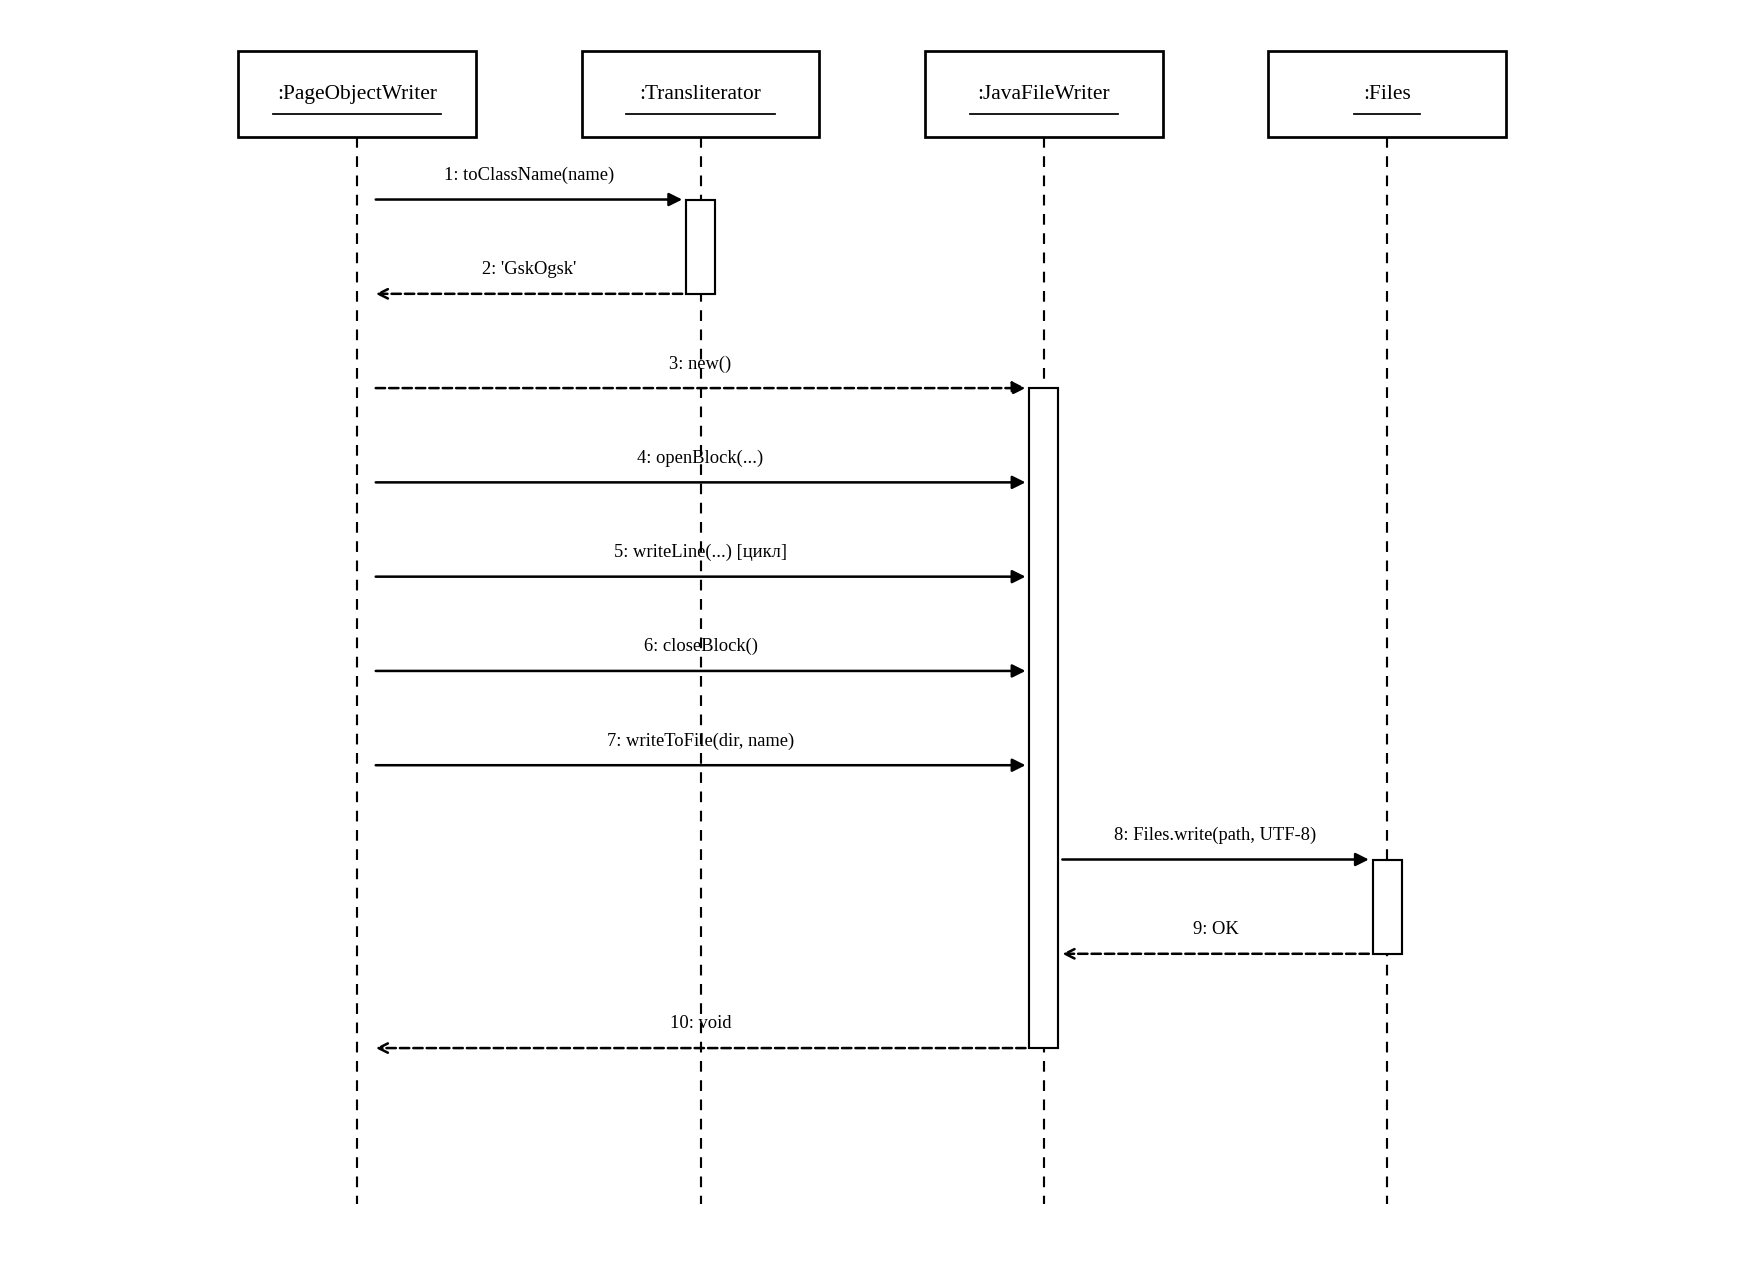
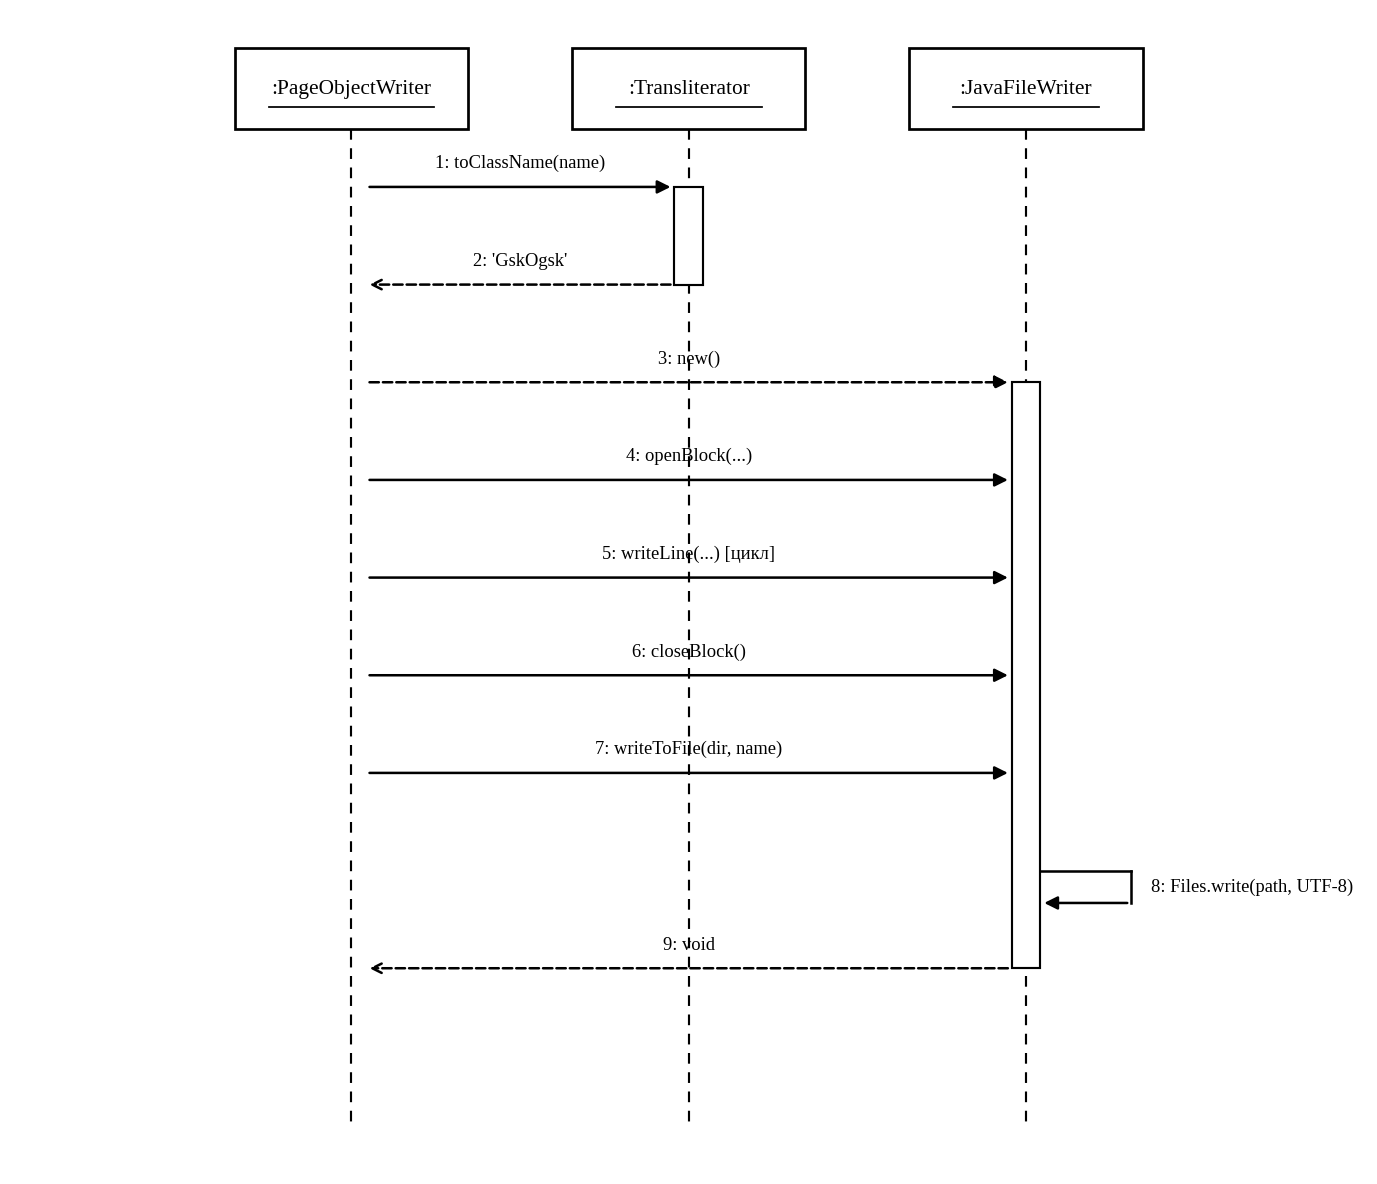
seq: убрана БД и :Files с ДПС — оставлены только объекты классов
По правилам UML на диаграммах последовательностей должны быть
только объекты классов программы, а не внешние сущности.

Изменения:
  • seq-data-normal.png — убран :autotestgen.db, SQL-операции
    вынесены в self-call TestRunDao/TestCaseDao
  • seq-data-system-interrupt.png — то же, SQLException в self-call
  • seq-common-normal.png — убран :Files, Files.write в self-call
    JavaFileWriter
  • seq-common-system-interrupt.png — то же,
    AccessDeniedException в self-call

Нотация ":КлассИмя" — анонимный экземпляр класса — оставлена,
это корректный UML (рис. 7.6, вариант в).

https://claude.ai/code/session_01WPz1fK92QEsvtXEfVLPRQp

diff --git a/diagrams/gen_seq.py b/diagrams/gen_seq.py
@@ -364,17 +364,17 @@ render("seq-generator-system-interrupt.png",
 # ===================== DATA =====================
 print("Data:")
 render("seq-data-normal.png",
-    [":MainController", ":ReportDao", ":TestRunDao", ":TestCaseDao", ":autotestgen.db"],
+    [":MainController", ":ReportDao", ":TestRunDao", ":TestCaseDao"],
     [
         {"from": ":MainController", "to": ":ReportDao", "label": "1: saveRun(result)"},
-        {"from": ":ReportDao", "to": ":ReportDao", "label": "2: conn = open()", "kind": "self"},
+        {"from": ":ReportDao", "to": ":ReportDao", "label": "2: open() + setAutoCommit(false)", "kind": "self"},
         {"from": ":ReportDao", "to": ":TestRunDao", "label": "3: insert(conn, result)"},
-        {"from": ":TestRunDao", "to": ":autotestgen.db", "label": "4: INSERT test_run"},
-        {"from": ":autotestgen.db", "to": ":TestRunDao", "label": "5: runId", "kind": "return"},
-        {"from": ":TestRunDao", "to": ":ReportDao", "label": "6: runId", "kind": "return"},
-        {"from": ":ReportDao", "to": ":TestCaseDao", "label": "7: insertBatch(conn, runId, cases)"},
-        {"from": ":TestCaseDao", "to": ":autotestgen.db", "label": "8: batch INSERT test_case"},
-        {"from": ":ReportDao", "to": ":autotestgen.db", "label": "9: commit()"},
+        {"from": ":TestRunDao", "to": ":TestRunDao", "label": "4: INSERT test_run\nRETURN_GENERATED_KEYS", "kind": "self"},
+        {"from": ":TestRunDao", "to": ":ReportDao", "label": "5: runId", "kind": "return"},
+        {"from": ":ReportDao", "to": ":TestCaseDao", "label": "6: insertBatch(conn, runId, cases)"},
+        {"from": ":TestCaseDao", "to": ":TestCaseDao", "label": "7: batch INSERT test_case", "kind": "self"},
+        {"from": ":TestCaseDao", "to": ":ReportDao", "label": "8: void", "kind": "return"},
+        {"from": ":ReportDao", "to": ":ReportDao", "label": "9: commit()", "kind": "self"},
         {"from": ":ReportDao", "to": ":MainController", "label": "10: void", "kind": "return"},
     ])
 
@@ -389,22 +389,21 @@ render("seq-data-user-interrupt.png",
     ])
 
 render("seq-data-system-interrupt.png",
-    [":MainController", ":ReportDao", ":TestRunDao", ":autotestgen.db"],
+    [":MainController", ":ReportDao", ":TestRunDao"],
     [
         {"from": ":MainController", "to": ":ReportDao", "label": "1: saveRun(result)"},
-        {"from": ":ReportDao", "to": ":ReportDao", "label": "2: open + setAutoCommit(false)", "kind": "self"},
+        {"from": ":ReportDao", "to": ":ReportDao", "label": "2: open() + setAutoCommit(false)", "kind": "self"},
         {"from": ":ReportDao", "to": ":TestRunDao", "label": "3: insert(conn, result)"},
-        {"from": ":TestRunDao", "to": ":autotestgen.db", "label": "4: INSERT (диск переполнен)"},
-        {"from": ":autotestgen.db", "to": ":TestRunDao", "label": "5: SQLException", "kind": "return"},
-        {"from": ":TestRunDao", "to": ":ReportDao", "label": "6: throw наверх", "kind": "return"},
-        {"from": ":ReportDao", "to": ":ReportDao", "label": "7: catch → stderr log", "kind": "self"},
-        {"from": ":ReportDao", "to": ":MainController", "label": "8: void (graceful)", "kind": "return"},
+        {"from": ":TestRunDao", "to": ":TestRunDao", "label": "4: INSERT → SQLException\n(диск переполнен)", "kind": "self"},
+        {"from": ":TestRunDao", "to": ":ReportDao", "label": "5: throw наверх", "kind": "return"},
+        {"from": ":ReportDao", "to": ":ReportDao", "label": "6: catch → stderr log", "kind": "self"},
+        {"from": ":ReportDao", "to": ":MainController", "label": "7: void (graceful)", "kind": "return"},
     ])
 
 # ===================== COMMON =====================
 print("Common:")
 render("seq-common-normal.png",
-    [":PageObjectWriter", ":Transliterator", ":JavaFileWriter", ":Files"],
+    [":PageObjectWriter", ":Transliterator", ":JavaFileWriter"],
     [
         {"from": ":PageObjectWriter", "to": ":Transliterator", "label": "1: toClassName(name)"},
         {"from": ":Transliterator", "to": ":PageObjectWriter", "label": "2: 'GskOgsk'", "kind": "return"},
@@ -413,9 +412,8 @@ render("seq-common-normal.png",
         {"from": ":PageObjectWriter", "to": ":JavaFileWriter", "label": "5: writeLine(...) [цикл]"},
         {"from": ":PageObjectWriter", "to": ":JavaFileWriter", "label": "6: closeBlock()"},
         {"from": ":PageObjectWriter", "to": ":JavaFileWriter", "label": "7: writeToFile(dir, name)"},
-        {"from": ":JavaFileWriter", "to": ":Files", "label": "8: Files.write(path, UTF-8)"},
-        {"from": ":Files", "to": ":JavaFileWriter", "label": "9: OK", "kind": "return"},
-        {"from": ":JavaFileWriter", "to": ":PageObjectWriter", "label": "10: void", "kind": "return"},
+        {"from": ":JavaFileWriter", "to": ":JavaFileWriter", "label": "8: Files.write(path, UTF-8)", "kind": "self"},
+        {"from": ":JavaFileWriter", "to": ":PageObjectWriter", "label": "9: void", "kind": "return"},
     ])
 
 render("seq-common-user-interrupt.png",
@@ -429,13 +427,12 @@ render("seq-common-user-interrupt.png",
     ])
 
 render("seq-common-system-interrupt.png",
-    [":PageObjectWriter", ":JavaFileWriter", ":Files"],
+    [":PageObjectWriter", ":JavaFileWriter"],
     [
         {"from": ":PageObjectWriter", "to": ":JavaFileWriter", "label": "1: writeToFile(dir, name)"},
-        {"from": ":JavaFileWriter", "to": ":Files", "label": "2: createDirectories(dir)"},
-        {"from": ":Files", "to": ":JavaFileWriter", "label": "3: AccessDeniedException", "kind": "return"},
-        {"from": ":JavaFileWriter", "to": ":PageObjectWriter", "label": "4: IOException", "kind": "return"},
-        {"from": ":PageObjectWriter", "to": ":PageObjectWriter", "label": "5: throw наверх в TestGenerator", "kind": "self"},
+        {"from": ":JavaFileWriter", "to": ":JavaFileWriter", "label": "2: Files.createDirectories(dir)\n→ AccessDeniedException", "kind": "self"},
+        {"from": ":JavaFileWriter", "to": ":PageObjectWriter", "label": "3: IOException", "kind": "return"},
+        {"from": ":PageObjectWriter", "to": ":PageObjectWriter", "label": "4: throw наверх в TestGenerator", "kind": "self"},
     ])
 
 print("\nГотово.")
